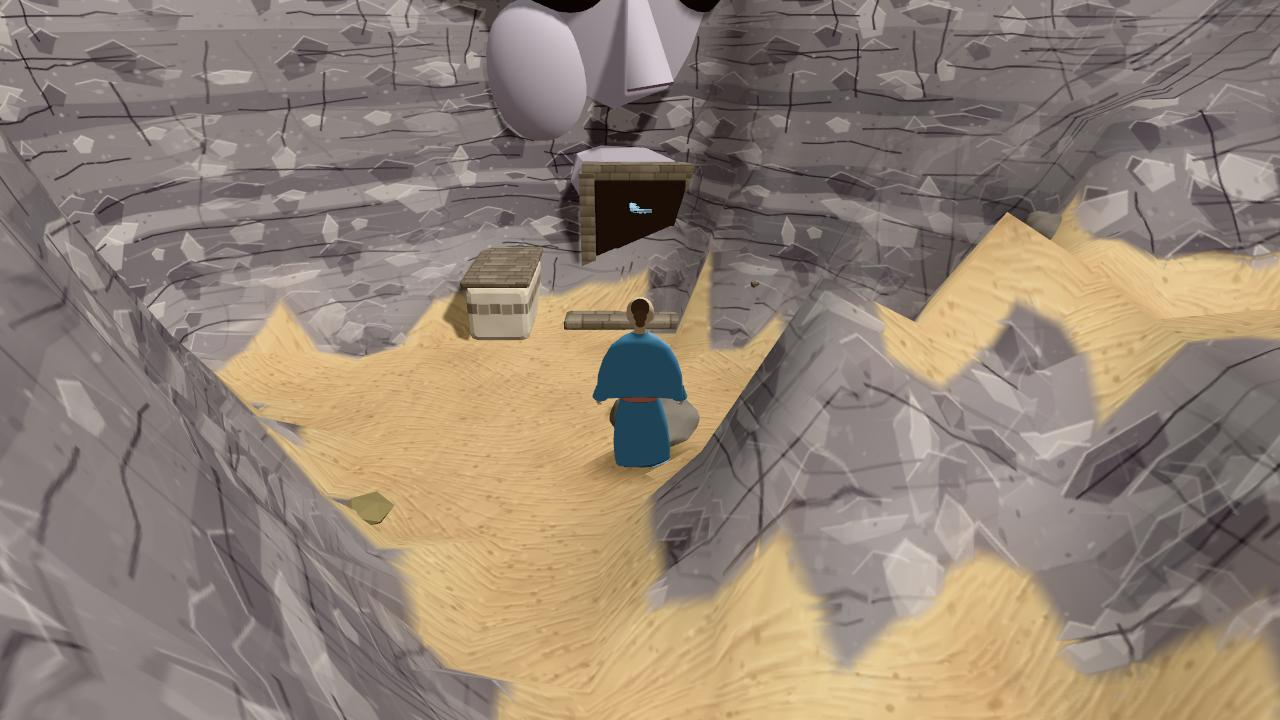
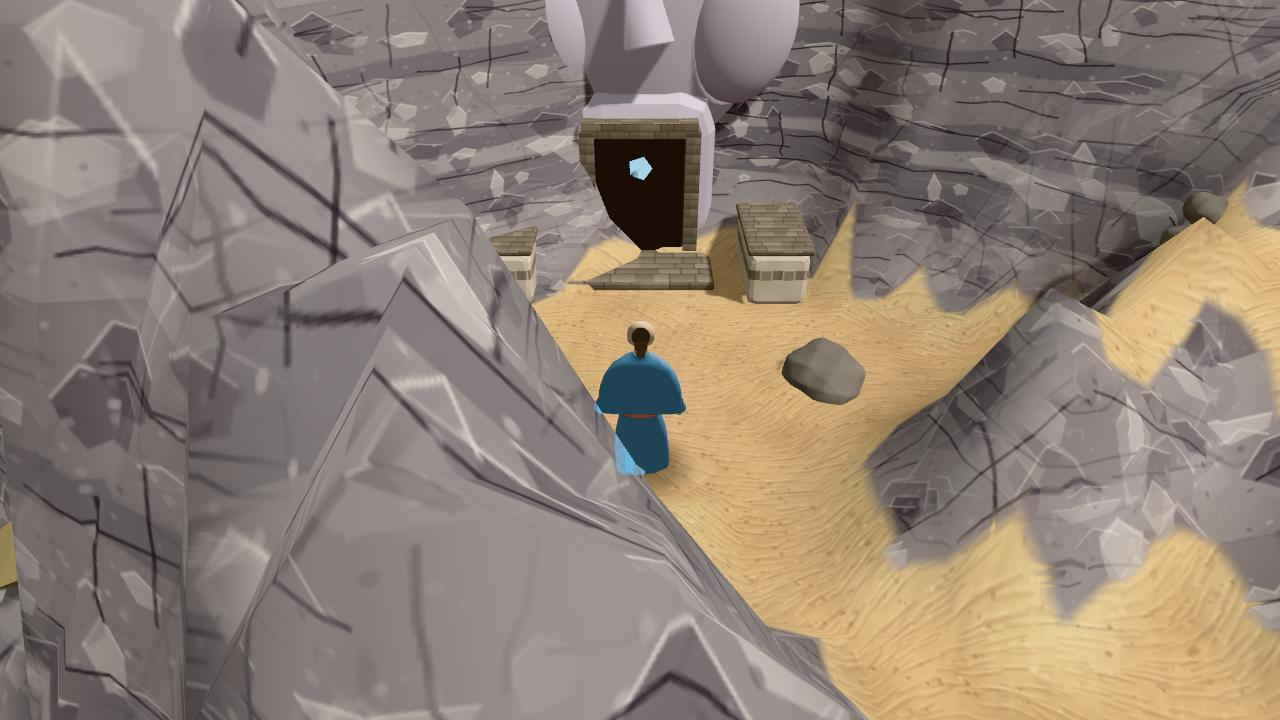
ORIG-PLACES audit: every original door and landmark against ours; SCHOOL-S28 on LBA2's own door zone (request updated)

diff --git a/lba3/tools/testlab/WORLD_ART_REQUESTS.md b/lba3/tools/testlab/WORLD_ART_REQUESTS.md
@@ -5324,7 +5324,8 @@ and the second": **move the School to S28's canyon, and withdraw those three.**
 - **Withdrawn: `requests/SCHOOL-LBA2b.diff`, `SCHOOL-CANYON.diff`, `SCHOOL-LBA2d.diff`** (do not apply; superseded).
 - **`requests/SCHOOL-S28.diff`** (`desertold.js` only; `git apply --check` clean on origin):
   - `SCHOOL_SITE` / `SCHOOL_DOOR` move to S28's hollow: the mask set into the hollow's north wall, facing south down the
-    valley (local (1.6, 3.5), door spot (1.6, 0.9)). **`wizards.js` follows by itself** (it builds the School's door and
+    valley (local (4.1, 2.9)); **the door spot is LBA2's own decoded door zone for scene 28, (4.1, −0.2)** (updated
+    15.11, the diff replaced). **`wizards.js` follows by itself** (it builds the School's door and
     its way out from these two), and so do `R.school` and the map's School mark.
   - The mask as LBA2's (from LBA2b/d, the user's picture): pale lilac-grey, V-shaped, swept-up pointed brows, deep
     sockets with big rough orange eyes, cheekbones, the door in the chin with its frame and star, a worn step, LBA2's
@@ -5342,3 +5343,30 @@ and the second": **move the School to S28's canyon, and withdraw those three.**
   `R.school`), `island-doors` and `purposes` (the bunkhouse's door and board moved), `chapter4`, `prologue` (magus,
   keraooc read `R.school`), the map. Not run here. If the School's way in should stay shut in some chapters, that is the
   story's as before.
+
+## ORIG-PLACES · everything at its original place: the audit (the user, 15.11) · the desktop, 15.11.2026
+The user: "across the whole game, everything should stand at its original place". Measured on `02ffd1e5`: every
+original exterior door decoded from LBA2 (`tools/worldscore/ref/{citadel,desert}.json` doors, in our frames) against our
+nearest door, and `tools/worldscore.mjs`'s landmark matching on every island. (Complements the cloud's P42 MAP-ORIG.)
+**At the original's place (within 0–3 m):** Citadel: Twinsen's house (2.7 m: the door; the interior would have to
+follow), the neighbour's, the tavern, Mr Bazoo's, the ticket office, Nell's, the pharmacy, the baggage claim, the
+fort passage's two doors (2.8, 3.6 m), the Water Office and the sewer's two hatches (D2, by the door map). Desert:
+house S40 (0.3 m), the School (now: SCHOOL-S28, on LBA2's door zone). The Zeelich isles' buildings (automatic, from
+LBA2's data); the "moved / missing" rows worldscore lists for Otringal's high town and the Lift Dock are its matcher's:
+the slimmed spires (ISLES-BAR) and the lift tower and crane drawn by us at the original's spots (±0.6 m).
+**Off the original's place, each for a reason on record:**
+| Where | Off by | Why (who decided) |
+|---|---|---|
+| Citadel, the statue of Twinsen and Zoé | 6.2 m N | the original's spot is the square's middle, where chapter 1's well stands (story) |
+| Citadel, Bersimon's tent | 6.2 m | the glider field's stop is at LBA2's spot (travel, story) |
+| Citadel, Tralu's cave door | 9.3 m | no bank at LBA2's spot: the depot's level yard (DOORS-LBA2 11) |
+| Citadel, the school (`stone`, Tibbo's) | 3.4 m | WORLD-FIX moved the house off the ramp |
+| Citadel, the west islet's dome | — | **the user: no dome** |
+| Desert, Kesh's five houses (the bar, Leone's, the shop, 38, the village) | 5.6–32 m S | **the user, 14.11 (ISLAND-85): don't move the village** |
+| Desert, the Temple of Bù's door and its well-hatch (LBA2 10, 127) | ~115 m (ours under the dig) | twelve years: the buried temple is our story |
+| Desert, the hacienda, the hut, the islet's door (LBA2 24, 113, 183) | — | **the user's DECLUTTER (3.11)** |
+| Zeelich's hub | — | **the user: a new city** |
+| The Hamalayi (LBA1's factory compound, the Sacred Carrot, the quay) | — | our own larger region (`WORLD_SIMILARITY.md`) |
+Nothing else is off. **Asked of the user now:** whether the latest word ("everything at its original place") overrides
+the decisions in bold, Kesh first; the story-tied ones (the statue and the well, the tent and the glider field, the
+temple's well) are the cloud's to plan if so.
